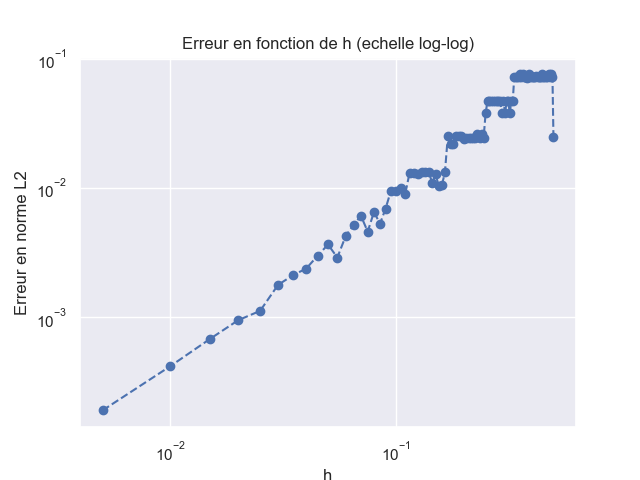
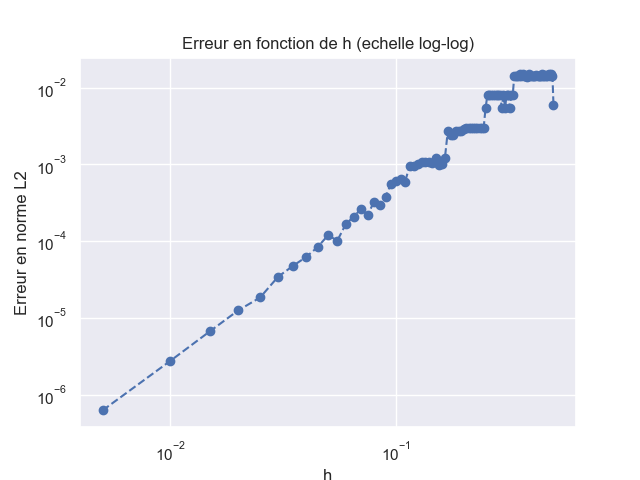
Nouveau calcul d'erreur

diff --git a/fem_p1.py b/fem_p1.py
@@ -1,4 +1,6 @@
 import numpy as np
+from math import sqrt
+
 
 def mass_elem(element, triplets):
     """ Calcule les coefficients de la matrice élémentaire de masse de l'élément (segment ou triangle) et les ajoute à triplets. """
@@ -114,3 +116,17 @@ def Dirichlet(msh, dim, physical_tag, g, triplets, B):
         # Modifier le coefficient B[I] = g(x, y)
         B[I] = g(x, y)
  
+def Error(msh, dim, physical_tag, U_ref, U, order=2):
+	elements = msh.getElements(dim,physical_tag)
+	error = 0
+
+	for element in elements:
+		poids, param, phys = element.gaussPoint(order)
+
+		for i in range(3):
+			I = element.p[i].id-1
+            		
+			for m in range(len(param)):
+				error += element.jac() * poids[m] * ((U_ref[I]-U[I]) * element.phiRef(param[m],i))**2 
+	
+	return sqrt(error)

diff --git a/compute_error.py b/compute_error.py
@@ -1,6 +1,7 @@
 import sys
 import os
 from config import PATH_TO_GMSH_LIB
+
 sys.path.insert(0, PATH_TO_GMSH_LIB)
 
 import gmsh
@@ -95,9 +96,11 @@ if __name__ == "__main__":
         common.Triangle.N = 1
 
         # Calcul de l'erreur
-        error = norm(U-Uref, 2)
+        #error = norm(U-Uref, 2)
+        error = fem_p1.Error(mesh, 2, 10, Uref, U, 2)
         errors.append(error)
         print("[compute_error.py] h = {} | error = {}".format(h, error))
+
 
     print(H)
     print("---------------------------")
